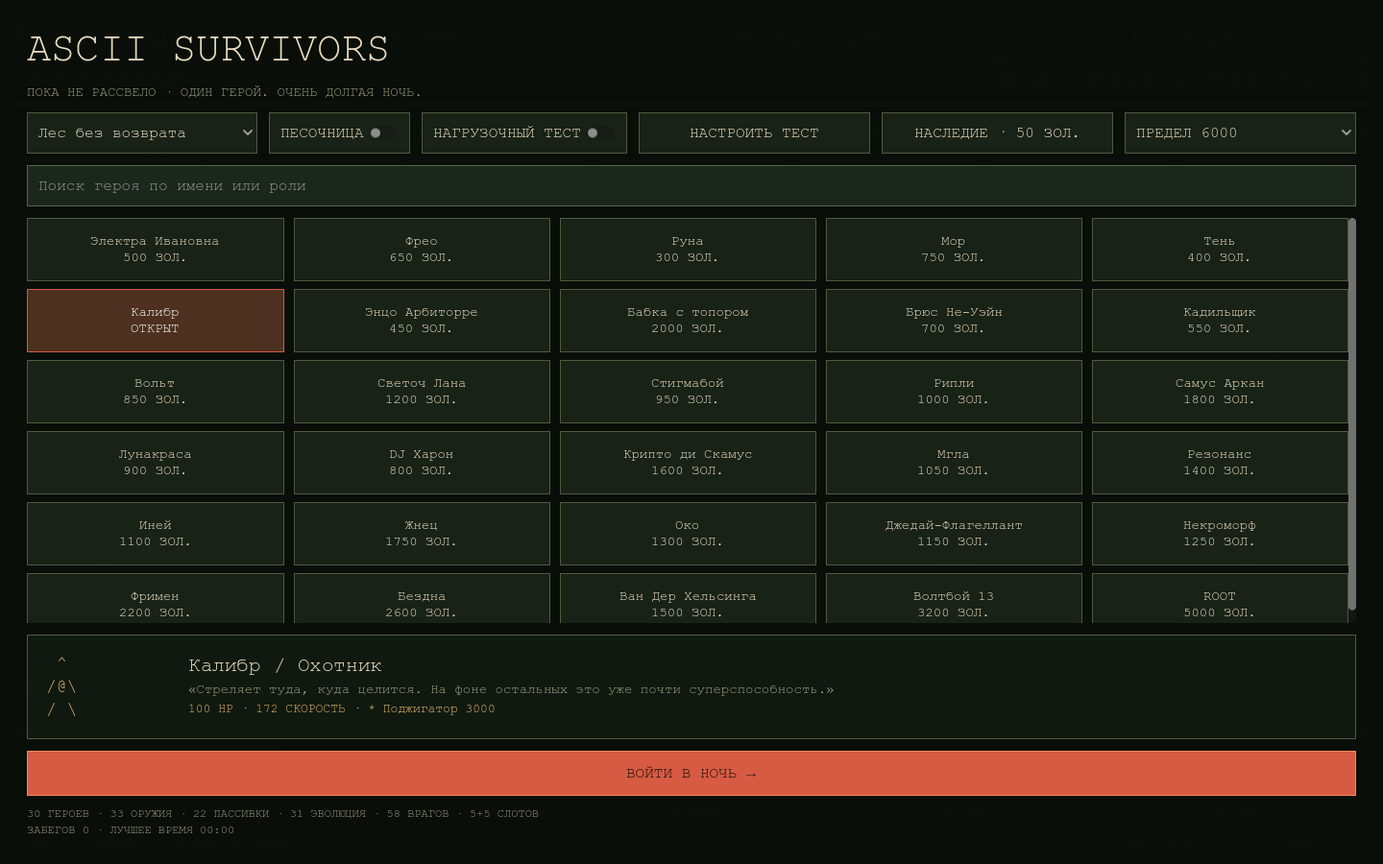
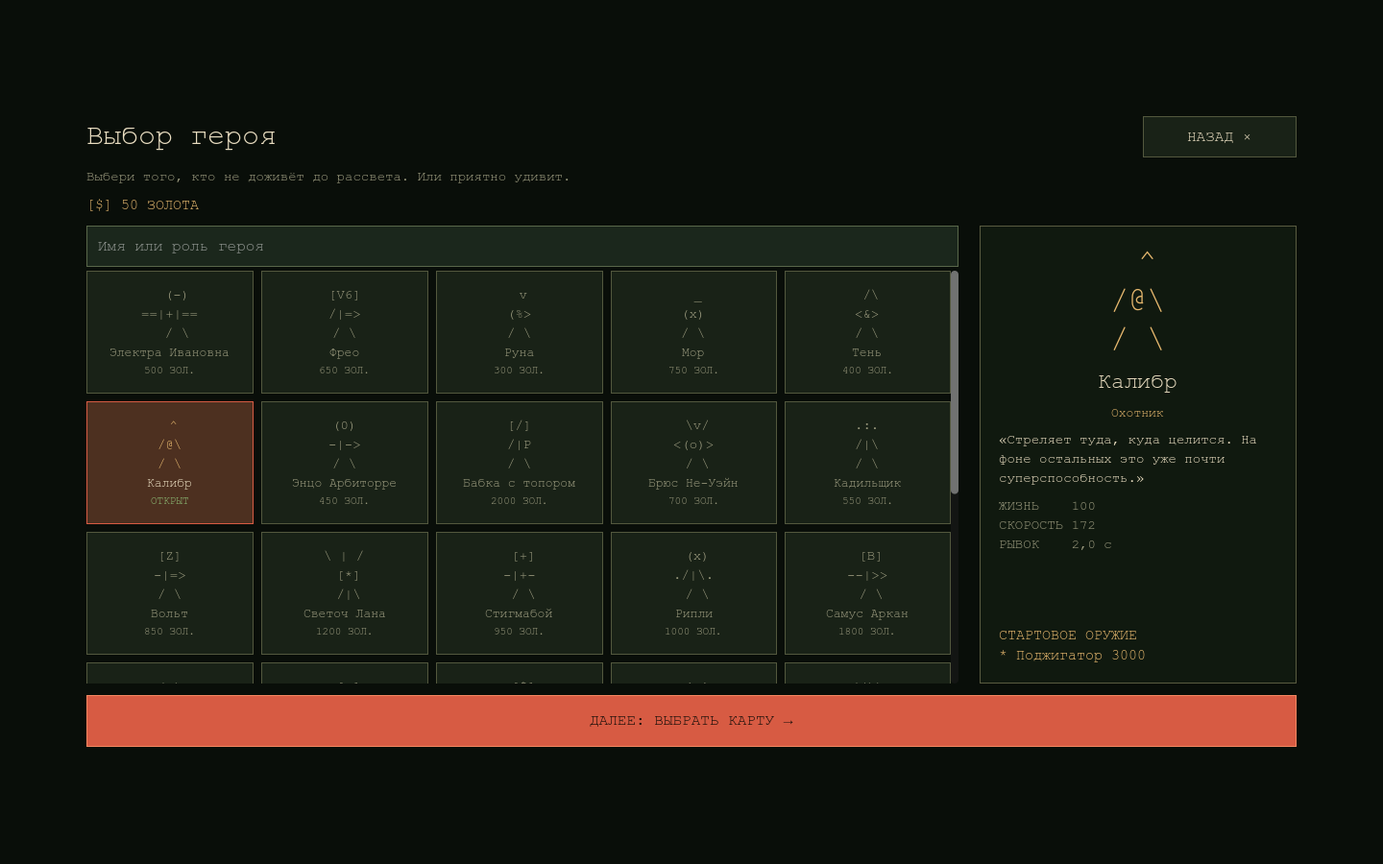
Add ASCII title menu and separate hero and stage selection

diff --git a/godot/src/Menus.cs b/godot/src/Menus.cs
@@ -8,25 +8,28 @@ public partial class Main
     private readonly List<Color> choiceColors=[];
     private VBoxContainer? choiceBody;
     private ScrollContainer? choiceScroll;
+    private VBoxContainer? centeredBody;
+    private float centeredWidth;
     private Button? confirmChoice,banishChoice,rerollChoice;
     private Label? choiceSelection,choiceMoney;
     private void CloseOverlay()
     {
         if(overlay is not null&&GodotObject.IsInstanceValid(overlay)){root.RemoveChild(overlay);overlay.QueueFree();}
-        overlay=null!;overlayKind="";choiceButtons.Clear();choiceColors.Clear();choiceBody=null;choiceScroll=null;confirmChoice=banishChoice=rerollChoice=null;choiceSelection=choiceMoney=null;
+        overlay=null!;overlayKind="";choiceButtons.Clear();choiceColors.Clear();choiceBody=null;choiceScroll=null;centeredBody=null;confirmChoice=banishChoice=rerollChoice=null;choiceSelection=choiceMoney=null;
     }
-    private VBoxContainer Modal(string kind,string title,string subtitle="",bool back=false)
+    private VBoxContainer Modal(string kind,string title,string subtitle="",bool back=false,float width=0)
     {
         CloseOverlay();overlayKind=kind;overlay=new Control{MouseFilter=Control.MouseFilterEnum.Stop};root.AddChild(overlay);Fill(overlay);
         var shade=new ColorRect{Color=new Color(.035f,.055f,.035f),MouseFilter=Control.MouseFilterEnum.Stop};overlay.AddChild(shade);Fill(shade);
         var margin=Margin(28);overlay.AddChild(margin);Fill(margin);var body=new VBoxContainer();Gap(body,12);
-        if(kind is "level" or "reward")
+        if(kind is "level" or "reward"||width>0)
         {
-            var center=new CenterContainer();margin.AddChild(center);center.AddChild(body);choiceBody=body;
-            body.CustomMinimumSize=new(Math.Min(1240,GetViewport().GetVisibleRect().Size.X-56),0);
+            var center=new CenterContainer();margin.AddChild(center);center.AddChild(body);centeredBody=body;centeredWidth=width>0?width:1240;
+            if(kind is "level" or "reward")choiceBody=body;
+            body.CustomMinimumSize=new(Math.Min(centeredWidth,GetViewport().GetVisibleRect().Size.X-56),0);
         }
         else margin.AddChild(body);
-        var header=new HBoxContainer();body.AddChild(header);var h=Label(title,kind=="intro"?42:30,parchment);h.SizeFlagsHorizontal=Control.SizeFlags.ExpandFill;header.AddChild(h);if(back)header.AddChild(Button("ВЕРНУТЬСЯ ×",CloseAux));
+        if(title.Length>0){var header=new HBoxContainer();body.AddChild(header);var h=Label(title,30,parchment);h.SizeFlagsHorizontal=Control.SizeFlags.ExpandFill;header.AddChild(h);if(back){var close=Button("НАЗАД ×",CloseAux);close.SizeFlagsHorizontal=Control.SizeFlags.Fill;close.CustomMinimumSize=new(160,42);header.AddChild(close);}}
         if(subtitle.Length>0){var sub=Label(subtitle,14,muted);sub.AutowrapMode=TextServer.AutowrapMode.WordSmart;body.AddChild(sub);}
         return body;
     }
@@ -42,53 +45,20 @@ public partial class Main
     }
     private static VBoxContainer Field(string title,Control input)
     {var box=new VBoxContainer{SizeFlagsHorizontal=Control.SizeFlags.ExpandFill};box.AddChild(new Label{Text=title});box.AddChild(input);return box;}
-    private void ShowIntro()
-    {
-        if(game.Status is RunStatus.Running or RunStatus.Paused){SaveCurrent();MakeReady();}
-        var body=Modal("intro","ASCII SURVIVORS","ПОКА НЕ РАССВЕЛО · ОДИН ГЕРОЙ. ОЧЕНЬ ДОЛГАЯ НОЧЬ.");
-        var options=new HBoxContainer();Gap(options,12);body.AddChild(options);
-        options.AddChild(Combo(content.Stages.Values.Select(s=>(s.Id,s.Title)),edit.Map,id=>{edit.Map=id;MakeReady();}));
-        var sandbox=new CheckButton{Text="ПЕСОЧНИЦА",ButtonPressed=edit.Sandbox};var stress=new CheckButton{Text="НАГРУЗОЧНЫЙ ТЕСТ",ButtonPressed=edit.Stress};options.AddChild(sandbox);options.AddChild(stress);options.AddChild(Button("НАСТРОИТЬ ТЕСТ",OpenSandbox));options.AddChild(Button($"НАСЛЕДИЕ · {store.Profile.Gold} ЗОЛ.",ShowShop));
-        options.AddChild(Combo(new[]{1000,3000,6000,12000,24000}.Select(n=>(n.ToString(),"ПРЕДЕЛ "+n)),edit.EnemyLimit.ToString(),id=>edit.EnemyLimit=int.Parse(id)));
-        var searchInput=new LineEdit{PlaceholderText="Поиск героя по имени или роли",Text=search,ClearButtonEnabled=true};body.AddChild(searchInput);
-        var heroes=new GridContainer{Columns=5};heroes.AddThemeConstantOverride("h_separation",10);heroes.AddThemeConstantOverride("v_separation",8);Scroll(body,heroes);
-        var detail=new PanelContainer();body.AddChild(detail);var detailRow=new HBoxContainer();Gap(detailRow,18);detail.AddChild(detailRow);var art=Label("",18,amber);art.CustomMinimumSize=new(130,0);detailRow.AddChild(art);var info=new VBoxContainer{SizeFlagsHorizontal=Control.SizeFlags.ExpandFill};detailRow.AddChild(info);Label name=Label("",21,parchment),description=Paragraph("",14,muted),stats=Label("",13,amber);info.AddChild(name);info.AddChild(description);info.AddChild(stats);
-        var actions=new HBoxContainer();Gap(actions,12);body.AddChild(actions);var buy=Button("ОТКРЫТЬ ГЕРОЯ",()=>{if(store.Purchase(edit.Hero,"hero")){MakeReady();ShowIntro();}else Toast(store.LastError.Length>0?store.LastError:"Недостаточно золота");});actions.AddChild(buy);
-        if(store.SavedRun is {} saved)actions.AddChild(Button($"ПРОДОЛЖИТЬ · {saved.Hero.Name} · {FormatTime(saved.Time)}",ContinueRun));
-        var start=Button("ВОЙТИ В НОЧЬ →",StartNew,true);actions.AddChild(start);
-        void UpdateDetail()
-        {
-            var hero=content.Heroes[edit.Hero];art.Text=hero.Sprite;name.Text=hero.Name+" / "+hero.Role;description.Text=hero.Description;stats.Text=$"{hero.Hp} HP · {hero.Speed} СКОРОСТЬ · "+content.ById[hero.Weapon].Icon+" "+content.ById[hero.Weapon].Title;
-            bool locked=!store.Profile.Heroes.Contains(hero.Id)&&!edit.Sandbox&&!edit.Stress;buy.Visible=locked;buy.Text="ОТКРЫТЬ ЗА "+hero.Cost+" ЗОЛ.";buy.Disabled=store.Profile.Gold<hero.Cost;start.Disabled=locked;
-        }
-        void BuildHeroes()
-        {
-            ClearChildren(heroes);var group=new ButtonGroup();
-            foreach(var hero in content.Heroes.Values.Where(h=>(h.Name+" "+h.Role+" "+h.Id).Contains(search,StringComparison.OrdinalIgnoreCase)))
-            {
-                bool owned=store.Profile.Heroes.Contains(hero.Id);var b=Button(hero.Name+"\n"+(owned?"ОТКРЫТ":edit.Sandbox||edit.Stress?"ДОСТУПЕН В ТЕСТЕ":hero.Cost+" ЗОЛ."),()=>{edit.Hero=hero.Id;MakeReady();UpdateDetail();});b.ToggleMode=true;b.ButtonGroup=group;b.ButtonPressed=hero.Id==edit.Hero;b.AutowrapMode=TextServer.AutowrapMode.WordSmart;b.CustomMinimumSize=new(0,66);b.AddThemeFontSizeOverride("font_size",14);b.TooltipText=hero.Description;heroes.AddChild(b);
-            }
-        }
-        sandbox.Toggled+=value=>{edit.Sandbox=value;if(value){edit.Stress=false;stress.SetPressedNoSignal(false);}MakeReady();BuildHeroes();UpdateDetail();};
-        stress.Toggled+=value=>{edit.Stress=value;if(value){edit.Sandbox=false;sandbox.SetPressedNoSignal(false);}MakeReady();BuildHeroes();UpdateDetail();};
-        searchInput.TextChanged+=value=>{search=value;BuildHeroes();};BuildHeroes();UpdateDetail();
-        body.AddChild(Label($"30 ГЕРОЕВ · 33 ОРУЖИЯ · 22 ПАССИВКИ · 31 ЭВОЛЮЦИЯ · 58 ВРАГОВ · 5+5 СЛОТОВ\nЗАБЕГОВ {store.Profile.Runs} · ЛУЧШЕЕ ВРЕМЯ {FormatTime((float)store.Profile.BestTime)}",12,muted));
-        if(store.LastError.Length>0)body.AddChild(Paragraph(store.LastError,13,red));
-    }
     private void ShowPause()
     {
         if(game.Status==RunStatus.Paused&&overlayKind=="pause"){Resume();return;}if(game.Status!=RunStatus.Running)return;game.Status=RunStatus.Paused;game.MoveInput=default;game.Firing=false;SaveCurrent();
-        var body=Modal("pause","Передышка","Враги и таймер на паузе.");body.Alignment=BoxContainer.AlignmentMode.Center;
+        var body=Modal("pause","Передышка","Враги и таймер на паузе.",width:540);body.Alignment=BoxContainer.AlignmentMode.Center;
         body.AddChild(Button("ПРОДОЛЖИТЬ →",Resume,true));body.AddChild(Button("ПЕСОЧНИЦА / НАСТРОИТЬ ТЕСТ",OpenSandbox));body.AddChild(Button("ДВИЖОК И УРОН",ShowMetrics));body.AddChild(Button("НАЧАТЬ ЗАНОВО",StartNew));body.AddChild(Button("НА СТАРТОВЫЙ ЭКРАН",()=>{SaveCurrent();MakeReady();ShowIntro();}));
     }
     private void Resume(){CloseOverlay();if(game.Status==RunStatus.Paused)game.Status=RunStatus.Running;lastStatus=game.Status;}
     private void PrepareAux()
-    {returnView=overlayKind=="intro"?"intro":overlayKind=="pause"?"pause":overlayKind.Length==0?"game":returnView;if(game.Status==RunStatus.Running){game.Status=RunStatus.Paused;game.Firing=false;game.MoveInput=default;SaveCurrent();}}
+    {returnView=overlayKind is "intro" or "characters" or "stages" or "lab" or "stress" or "pause"?overlayKind:overlayKind.Length==0?"game":returnView;if(game.Status==RunStatus.Running){game.Status=RunStatus.Paused;game.Firing=false;game.MoveInput=default;SaveCurrent();}}
     private void CloseAux()
-    {string back=returnView;CloseOverlay();if(back=="intro")ShowIntro();else if(back=="pause"){game.Status=RunStatus.Running;ShowPause();}else Resume();}
+    {string back=returnView;CloseOverlay();if(back=="intro")ShowIntro();else if(back=="characters")ShowCharacters();else if(back=="stages")ShowStages();else if(back=="lab")ShowLab();else if(back=="stress")ShowStressSetup();else if(back=="pause"){game.Status=RunStatus.Running;ShowPause();}else Resume();}
     private void OpenSandbox()
     {
-        PrepareAux();var body=Modal("sandbox","Песочница","Любой герой и оружие. Без наград и случайных волн. Урон герою включён, если не отмечена неуязвимость.",true);
+        PrepareAux();var body=Modal("sandbox","Песочница","Любой герой и оружие. Без наград и случайных волн. Урон герою включён, если не отмечена неуязвимость.",true,width:1000);
         var grid=new GridContainer{Columns=2,SizeFlagsVertical=Control.SizeFlags.ExpandFill};grid.AddThemeConstantOverride("h_separation",18);grid.AddThemeConstantOverride("v_separation",12);body.AddChild(grid);
         grid.AddChild(Field("Герой",Combo(content.Heroes.Values.Select(h=>(h.Id,h.Name)),edit.Hero,id=>edit.Hero=id)));
         grid.AddChild(Field("Оружие",Combo(new[]{("starter","Стартовое оружие героя")}.Concat(content.Items.Where(u=>u.Weapon).Select(u=>(u.Id,u.Title))),edit.Weapon,id=>edit.Weapon=id)));
@@ -154,14 +124,13 @@ public partial class Main
         {
             bool ok=reward?game.ClaimReward(game.OfferSelection):game.Choose(game.OfferSelection);if(!ok)return;CloseOverlay();RefreshHud(true);SaveCurrent();lastStatus=RunStatus.Ready;HandleStatus();
         },true);actions.AddChild(confirmChoice);
-        body.AddChild(Paragraph(reward?"ОДНА НАГРАДА ИЗ ТРЁХ · 1 / 2 / 3 — ВЫДЕЛИТЬ":"1 / 2 / 3 — ВЫДЕЛИТЬ · ИЗГНАНИЕ ДО КОНЦА ЗАБЕГА · РЕРОЛЛ 5 / 10 / 15… ЗОЛОТА ЗАБЕГА",12,muted));UpdateChoiceLayout();UpdateChoiceSelection();
+        body.AddChild(Paragraph(reward?"ОДНА НАГРАДА ИЗ ТРЁХ · 1 / 2 / 3 — ВЫДЕЛИТЬ":"1 / 2 / 3 — ВЫДЕЛИТЬ · ИЗГНАНИЕ ДО КОНЦА ЗАБЕГА · РЕРОЛЛ 5 / 10 / 15… ЗОЛОТА ЗАБЕГА",12,muted));UpdateOverlayLayout();UpdateChoiceSelection();
     }
-    private void UpdateChoiceLayout()
+    private void UpdateOverlayLayout()
     {
-        if(choiceBody is null||choiceScroll is null)return;
         var size=GetViewport().GetVisibleRect().Size;
-        choiceBody.CustomMinimumSize=new(Math.Min(1240,size.X-56),0);
-        choiceScroll.CustomMinimumSize=new(0,Math.Clamp(size.Y-300,240,500));
+        if(centeredBody is not null)centeredBody.CustomMinimumSize=new(Math.Min(centeredWidth,size.X-56),0);
+        if(choiceScroll is not null)choiceScroll.CustomMinimumSize=new(0,Math.Clamp(size.Y-300,240,500));
     }
     private void SelectChoice(int index){int count=overlayKind=="reward"?game.Rewards.Count:game.Offers.Count;if(index<0||index>=count)return;game.OfferSelection=index;choiceButtons[index].GrabFocus();UpdateChoiceSelection();SaveCurrent();}
     private void UpdateChoiceSelection()

diff --git a/godot/src/FrontEnd.cs b/godot/src/FrontEnd.cs
@@ -1,0 +1,112 @@
+using Godot;
+
+namespace AsciiSurvivors;
+
+public partial class Main
+{
+    private Label CenterText(string text,int size,Color color)
+    {var label=Paragraph(text,size,color);label.HorizontalAlignment=HorizontalAlignment.Center;return label;}
+    private Button MenuAction(string id,string text,Action action,bool primary=false)
+    {var button=Button(text,action,primary);button.Name=id;button.CustomMinimumSize=new(0,54);return button;}
+    private void PlayFromTitle()
+    {
+        edit.Sandbox=edit.Stress=false;
+        if(!store.Profile.Heroes.Contains(edit.Hero))edit.Hero=store.Profile.Hero;
+        MakeReady();ShowCharacters();
+    }
+    private void ShowIntro()
+    {
+        if(game.Status is RunStatus.Running or RunStatus.Paused){SaveCurrent();MakeReady();}
+        var body=Modal("intro","",width:1100);Gap(body,16);
+        var scenery=new MenuBackdrop{Font=renderer.Font};overlay.GetChild(0).AddChild(scenery);Fill(scenery);
+        var top=new HBoxContainer();Gap(top,20);body.AddChild(top);
+        var quit=MenuAction("Quit","ВЫХОД",()=>GetTree().Quit());quit.SizeFlagsHorizontal=Control.SizeFlags.Fill;quit.CustomMinimumSize=new(160,42);top.AddChild(quit);
+        top.AddChild(CenterText("[$] "+store.Profile.Gold+" ЗОЛОТА",20,amber));
+        var screen=MenuAction("Fullscreen","ПОЛНЫЙ ЭКРАН",ToggleFullscreen);screen.SizeFlagsHorizontal=Control.SizeFlags.Fill;screen.CustomMinimumSize=new(180,42);top.AddChild(screen);
+        body.AddChild(new Control{CustomMinimumSize=new(0,14)});
+        var ascii=CenterText("ASCII",48,amber);ascii.AddThemeColorOverride("font_shadow_color",new Color("050604"));ascii.AddThemeConstantOverride("shadow_offset_y",4);body.AddChild(ascii);
+        var logo=CenterText("SURVIVORS",82,new Color("efb86f"));logo.AddThemeColorOverride("font_shadow_color",new Color("672f21"));logo.AddThemeConstantOverride("shadow_offset_x",4);logo.AddThemeConstantOverride("shadow_offset_y",5);body.AddChild(logo);
+        body.AddChild(CenterText("—  ПОКА НЕ РАССВЕЛО  —",18,red));
+        body.AddChild(CenterText("       .-.       \n      /o o\\      \n      /|+|\\      \n     _/   \\_     ",23,parchment));
+        var center=new CenterContainer();body.AddChild(center);var launch=new VBoxContainer{CustomMinimumSize=new(420,0)};Gap(launch,10);center.AddChild(launch);
+        launch.AddChild(MenuAction("Play","ИГРАТЬ  →",PlayFromTitle,true));
+        if(store.SavedRun is {} saved)launch.AddChild(MenuAction("Continue","ПРОДОЛЖИТЬ · "+saved.Hero.Name+" · "+FormatTime(saved.Time),ContinueRun));
+        var sections=new GridContainer{Columns=4};sections.AddThemeConstantOverride("h_separation",12);body.AddChild(sections);
+        sections.AddChild(MenuAction("Legacy","[+]  НАСЛЕДИЕ",ShowShop));
+        sections.AddChild(MenuAction("Recipes","[?]  НЕКРОНОМИКОН"+(store.Profile.Features.Contains("necronomicon")?"":"\nОТКРЫТЬ · "+content.Features.First(f=>f.Id=="necronomicon").Cost+" ЗОЛ."),()=>OpenFeature("necronomicon")));
+        sections.AddChild(MenuAction("Bestiary","(x)  БЕСТИАРИЙ"+(store.Profile.Features.Contains("bestiary")?"":"\nОТКРЫТЬ · "+content.Features.First(f=>f.Id=="bestiary").Cost+" ЗОЛ."),()=>OpenFeature("bestiary")));
+        sections.AddChild(MenuAction("Laboratory","[>]  ИСПЫТАНИЯ",ShowLab));
+        body.AddChild(CenterText($"ОТКРЫТО ГЕРОЕВ {store.Profile.Heroes.Count} / {content.Heroes.Count}   ·   ЛУЧШИЙ ЗАБЕГ {FormatTime((float)store.Profile.BestTime)}",13,muted));
+        body.AddChild(CenterText("ОДИН ГЕРОЙ. ОЧЕНЬ ДОЛГАЯ НОЧЬ.",12,muted));
+        if(store.LastError.Length>0)body.AddChild(CenterText(store.LastError,13,red));
+    }
+    private void ShowCharacters()
+    {
+        returnView="intro";
+        var body=Modal("characters","Выбор героя","Выбери того, кто не доживёт до рассвета. Или приятно удивит.",true,width:1260);
+        var wallet=Label("[$] "+store.Profile.Gold+" ЗОЛОТА",15,amber);body.AddChild(wallet);
+        var panes=new HBoxContainer();Gap(panes,22);body.AddChild(panes);
+        var catalogue=new VBoxContainer{SizeFlagsHorizontal=Control.SizeFlags.ExpandFill};panes.AddChild(catalogue);
+        var input=new LineEdit{PlaceholderText="Имя или роль героя",Text=search,ClearButtonEnabled=true};catalogue.AddChild(input);
+        var scroll=new ScrollContainer{CustomMinimumSize=new(0,430),SizeFlagsHorizontal=Control.SizeFlags.ExpandFill,SizeFlagsVertical=Control.SizeFlags.ExpandFill,HorizontalScrollMode=ScrollContainer.ScrollMode.Disabled};catalogue.AddChild(scroll);
+        var grid=new GridContainer{Columns=5,SizeFlagsHorizontal=Control.SizeFlags.ExpandFill};grid.Name="HeroGrid";grid.AddThemeConstantOverride("h_separation",8);grid.AddThemeConstantOverride("v_separation",8);scroll.AddChild(grid);
+        var panel=new PanelContainer{CustomMinimumSize=new(330,0)};panes.AddChild(panel);var detail=new VBoxContainer{CustomMinimumSize=new(290,0)};Gap(detail,12);panel.AddChild(detail);
+        var portrait=CenterText("",32,amber);portrait.CustomMinimumSize=new(0,110);detail.AddChild(portrait);
+        var name=CenterText("",23,parchment);var role=CenterText("",13,amber);detail.AddChild(name);detail.AddChild(role);
+        var description=Paragraph("",14,parchment);detail.AddChild(description);var stats=Paragraph("",14,muted);detail.AddChild(stats);
+        detail.AddChild(new Control{SizeFlagsVertical=Control.SizeFlags.ExpandFill});var weapon=Paragraph("",15,amber);detail.AddChild(weapon);
+        var actions=new HBoxContainer();Gap(actions,12);body.AddChild(actions);
+        var buy=MenuAction("BuyHero","ОТКРЫТЬ ГЕРОЯ",()=>{if(store.Purchase(edit.Hero,"hero")){MakeReady();ShowCharacters();}else Toast(store.LastError.Length>0?store.LastError:"Недостаточно золота");});actions.AddChild(buy);
+        var next=MenuAction("ChooseStage","ДАЛЕЕ: ВЫБРАТЬ КАРТУ →",ShowStages,true);actions.AddChild(next);
+        void UpdateDetail()
+        {
+            var hero=content.Heroes[edit.Hero];bool owned=store.Profile.Heroes.Contains(hero.Id);
+            portrait.Text=hero.Sprite;name.Text=hero.Name;role.Text=hero.Role;description.Text=hero.Description;
+            stats.Text=$"ЖИЗНЬ    {game.Player.MaxHp}\nСКОРОСТЬ {game.Speed:0}\nРЫВОК    {game.DashCooldown:0.0} с";
+            weapon.Text="СТАРТОВОЕ ОРУЖИЕ\n"+content.ById[hero.Weapon].Icon+" "+content.ById[hero.Weapon].Title;
+            if(hero.ExtraWeapons.Length>0)weapon.Text+="\n"+string.Join("\n",hero.ExtraWeapons.Select(id=>content.ById[id].Icon+" "+content.ById[id].Title));
+            buy.Visible=!owned;buy.Text="ОТКРЫТЬ ЗА "+hero.Cost+" ЗОЛ.";buy.Disabled=store.Profile.Gold<hero.Cost;next.Disabled=!owned;
+        }
+        void BuildHeroes()
+        {
+            ClearChildren(grid);var group=new ButtonGroup();
+            foreach(var hero in content.Heroes.Values.Where(h=>(h.Name+" "+h.Role+" "+h.Id).Contains(search,StringComparison.OrdinalIgnoreCase)))
+            {
+                bool owned=store.Profile.Heroes.Contains(hero.Id);
+                var b=Button("",()=>{edit.Hero=hero.Id;MakeReady();UpdateDetail();});b.Name="Hero-"+hero.Id;b.AccessibilityName=hero.Name;b.TooltipText=hero.Description;b.ToggleMode=true;b.ButtonGroup=group;b.ButtonPressed=hero.Id==edit.Hero;b.CustomMinimumSize=new(0,128);grid.AddChild(b);
+                var inset=Margin(8);inset.MouseFilter=Control.MouseFilterEnum.Ignore;b.AddChild(inset);Fill(inset);var tile=new VBoxContainer{MouseFilter=Control.MouseFilterEnum.Ignore,Alignment=BoxContainer.AlignmentMode.Center};Gap(tile,4);inset.AddChild(tile);
+                tile.AddChild(CenterText(hero.Sprite,14,owned?amber:muted));tile.AddChild(CenterText(hero.Name,13,owned?parchment:muted));tile.AddChild(CenterText(owned?"ОТКРЫТ":hero.Cost+" ЗОЛ.",11,owned?new Color("91c77c"):muted));
+            }
+        }
+        input.TextChanged+=value=>{search=value;BuildHeroes();};BuildHeroes();UpdateDetail();
+    }
+    private void ShowStages()
+    {
+        if(!store.Profile.Heroes.Contains(edit.Hero)){Toast("Сначала открой героя");return;}
+        returnView="characters";var body=Modal("stages","Выбор карты",content.Heroes[edit.Hero].Name+" · пять слотов оружия, пять пассивок и сколько угодно неприятностей.",true,width:1040);
+        var maps=new HBoxContainer();Gap(maps,18);body.AddChild(maps);var group=new ButtonGroup();
+        foreach(var stage in content.Stages.Values)
+        {
+            bool forest=stage.Id=="forest";
+            var b=Button("",()=>{edit.Map=stage.Id;MakeReady();});b.Name="Stage-"+stage.Id;b.AccessibilityName=stage.Title;b.ToggleMode=true;b.ButtonGroup=group;b.ButtonPressed=edit.Map==stage.Id;b.CustomMinimumSize=new(0,380);maps.AddChild(b);
+            var inset=Margin(24);inset.MouseFilter=Control.MouseFilterEnum.Ignore;b.AddChild(inset);Fill(inset);var card=new VBoxContainer{MouseFilter=Control.MouseFilterEnum.Ignore};Gap(card,18);inset.AddChild(card);
+            card.AddChild(CenterText(forest?"    /\\       /\\    \n   /**\\  /\\ /**\\   \n  /****\\/**\\****\\  \n    || /****\\ ||    \n  . ||   ||   || .  ":"      .---.       \n   +  | R |  +    \n --|--| I |--|--  \n   |  | P |  |    \n  _|__|___|__|_   ",22,forest?new Color("91c77c"):muted));
+            card.AddChild(CenterText(stage.Title,24,parchment));card.AddChild(Paragraph(stage.Description,16,parchment));card.AddChild(new Control{SizeFlagsVertical=Control.SizeFlags.ExpandFill});card.AddChild(CenterText("12 800 × 9 600 · БЕСКОНЕЧНАЯ НОЧЬ",12,amber));
+        }
+        body.AddChild(MenuAction("StartRun","ВОЙТИ В НОЧЬ →",StartNew,true));body.AddChild(CenterText("WASD — ДВИЖЕНИЕ   ·   ПРОБЕЛ — РЫВОК   ·   M — РЕЖИМ ОГНЯ",12,muted));
+    }
+    private void ShowLab()
+    {
+        returnView="intro";var body=Modal("lab","Испытания","Место, где можно быть бессмертным. И всё равно что-нибудь сломать.",true,width:700);
+        body.AddChild(MenuAction("Sandbox","[>]  ПЕСОЧНИЦА",OpenSandbox));body.AddChild(Paragraph("Любой герой, любое оружие и выбранные враги. Проверяй атаки и эволюции без покупки героев.",15,muted));
+        body.AddChild(MenuAction("StressSetup","[!]  НАГРУЗОЧНЫЙ ТЕСТ",ShowStressSetup));body.AddChild(Paragraph("Полный арсенал, неуязвимость и растущая толпа. Результаты испытаний не изменяют обычный прогресс.",15,muted));
+    }
+    private void ShowStressSetup()
+    {
+        returnView="lab";var body=Modal("stress","Нагрузочный тест","Все оружия и пассивки на максимуме. Неуязвимость включена. Прогресс не сохраняется.",true,width:760);
+        body.AddChild(Field("Герой",Combo(content.Heroes.Values.Select(h=>(h.Id,h.Name)),edit.Hero,id=>edit.Hero=id)));
+        body.AddChild(Field("Карта",Combo(content.Stages.Values.Select(s=>(s.Id,s.Title)),edit.Map,id=>edit.Map=id)));
+        body.AddChild(Field("Предел врагов",Combo(new[]{1000,3000,6000,12000,24000}.Select(n=>(n.ToString(),n.ToString())),edit.EnemyLimit.ToString(),id=>edit.EnemyLimit=int.Parse(id))));
+        body.AddChild(MenuAction("StartStress","ЗАПУСТИТЬ ТЕСТ →",()=>{edit.Sandbox=false;edit.Stress=true;StartNew();},true));
+    }
+}

diff --git a/godot/src/SmokeTest.cs b/godot/src/SmokeTest.cs
@@ -12,8 +12,18 @@ public partial class Main
             async Task Settle(){for(int i=0;i<6;i++)await ToSignal(GetTree(),SceneTree.SignalName.ProcessFrame);}
             async Task Shot(string name){await Settle();await ToSignal(RenderingServer.Singleton,RenderingServer.SignalName.FramePostDraw);using var image=GetViewport().GetTexture().GetImage();if(image.IsEmpty())throw new Exception("Empty viewport capture");if(image.SavePng(Path.Combine(directory,name+".png"))!=Error.Ok)throw new IOException("Screenshot failed");}
             void Assert(bool ok,string message){if(!ok)throw new Exception(message);}
-            await Shot("01-heroes");Assert(overlayKind=="intro","Intro view");
-            edit.Hero="hunter";edit.Sandbox=edit.Stress=false;StartNew();game.Status=RunStatus.Paused;
+            Button FindButton(string name)=>overlay.FindChildren(name,"Button",true,false).Cast<Button>().Single();
+            void Press(string name)=>FindButton(name).EmitSignal(Godot.Button.SignalName.Pressed);
+            await Shot("01-title");Assert(overlayKind=="intro"&&!overlay.FindChildren("HeroGrid","",true,false).Any(),"Title separate from hero selection");
+            Press("Recipes");Assert(overlayKind=="shop","Locked collection opens Legacy");CloseAux();Assert(overlayKind=="intro","Legacy returns to title");
+            Press("Play");await Shot("01-heroes");Assert(overlayKind=="characters"&&overlay.FindChildren("Hero-*","Button",true,false).Count==30,"All hero portrait tiles");
+            string locked=content.Heroes.Keys.First(id=>!store.Profile.Heroes.Contains(id));Press("Hero-"+locked);Assert(FindButton("ChooseStage").Disabled&&FindButton("BuyHero").Visible,"Locked hero cannot start");
+            Press("Hero-hunter");Press("ChooseStage");await Shot("01-stages");Assert(overlayKind=="stages","Separate stage selection");
+            Press("Stage-graveyard");Assert(edit.Map=="graveyard","Stage tile selects map");CloseAux();Assert(overlayKind=="characters","Stage back returns to heroes");CloseAux();Assert(overlayKind=="intro","Hero back returns to title");
+            ShowLab();await Shot("01-laboratory");Press("Sandbox");CloseAux();Assert(overlayKind=="lab","Sandbox back returns to lab");
+            Press("StressSetup");await Shot("01-stress-setup");edit.Hero=locked;int bank=store.Profile.Gold;Press("StartStress");Assert(game.Options.Stress&&game.Invincible,"Stress mode reachable with locked hero");
+            ShowIntro();Press("Play");Assert(!edit.Stress&&!edit.Sandbox&&store.Profile.Heroes.Contains(edit.Hero)&&store.Profile.Gold==bank,"Play clears test mode without unlocking or spending");
+            Press("ChooseStage");Press("Stage-forest");Press("StartRun");Assert(game.Status==RunStatus.Running&&game.MapId=="forest"&&!game.IsTest,"Title to heroes to stage starts normal run");game.Status=RunStatus.Paused;
             for(int i=0;i<35;i++)game.Spawn(i%4==0?"pumpkin":"skeleton",game.Player.Pos+World.Direction(i*.73f)*(160+i*9));
             game.RebuildGrid();game.Cast(game.SelectedWeapon);RefreshHud(true);await Shot("02-arena");
             game.Status=RunStatus.Running;game.GainXp(10);game.CheckLevel();game.Status=RunStatus.Upgrading;ShowChoices(false);await Settle();
@@ -21,7 +31,8 @@ public partial class Main
             SelectChoice(0);Assert(!confirmChoice.Disabled&&game.OfferSelection==0,"Explicit selection");
             _Input(new InputEventKey{Keycode=Key.Space,Pressed=true});Assert(game.Status==RunStatus.Upgrading,"Space does not confirm");
             await Shot("03-upgrades");Assert(confirmChoice.GetGlobalRect().End.Y<=root.Size.Y+1,"Choice actions fit viewport");
-            game.Choose(0);CloseOverlay();game.Status=RunStatus.Running;ShowPause();await Shot("04-pause");
+            game.Choose(0);CloseOverlay();game.Status=RunStatus.Running;ShowPause();await Shot("04-pause");Assert(centeredBody!.Size.X<=540,"Pause buttons stay compact");
+            string runId=game.RunId;ShowIntro();Assert(store.SavedRun?.RunId==runId,"Title preserves current battle");Press("Continue");Assert(game.RunId==runId&&game.Status==RunStatus.Running,"Continue resumes same battle");
             MakeReady();ShowShop();await Shot("05-legacy");
             edit.Sandbox=true;MakeReady();OpenSandbox();await Shot("06-sandbox-settings");
             edit.Hero="hunter";edit.Enemy="lichLord";edit.Weapon="lightning";edit.Rank=4;edit.Invulnerable=false;StartNew();game.Status=RunStatus.Paused;game.Manual=true;game.Player.Hp=game.Player.MaxHp=1000;
@@ -38,6 +49,10 @@ public partial class Main
                 Assert(Math.Abs(viewport.X/viewport.Y-window.X/(float)window.Y)<.002f,tag+" viewport matches window aspect, no letterbox");
                 Assert(Math.Abs(root.Size.X-viewport.X)<2&&Math.Abs(root.Size.Y-viewport.Y)<2,tag+" HUD covers viewport");
                 Assert(renderer.Field.Position.X==0&&Math.Abs(renderer.Field.End.X-viewport.X)<2,tag+" arena fills full width");
+                var run=game;MakeReady();ShowIntro();await Shot("title-"+tag);Assert(overlay.GetGlobalRect().Encloses(centeredBody!.GetGlobalRect()),tag+" title fits");
+                Press("Play");await Shot("heroes-"+tag);Assert(overlay.GetGlobalRect().Encloses(centeredBody!.GetGlobalRect()),tag+" hero selection fits");
+                Press("ChooseStage");await Settle();Assert(overlay.GetGlobalRect().Encloses(centeredBody!.GetGlobalRect()),tag+" stage selection fits");
+                CloseOverlay();game=run;renderer.Game=run;game.Status=RunStatus.Running;ShowPause();await Settle();Assert(centeredBody!.Size.X<=540&&overlay.GetGlobalRect().Encloses(centeredBody.GetGlobalRect()),tag+" pause stays compact");
                 game.Status=RunStatus.Upgrading;game.OfferSelection=-1;ShowChoices(false);await Settle();
                 Assert(confirmChoice!.Disabled,tag+" choice requires selection");
                 choiceButtons[1].EmitSignal(Godot.Button.SignalName.Pressed);await Shot("upgrades-"+tag);
@@ -65,7 +80,7 @@ public partial class Main
             Assert(overlay.GetGlobalRect().Encloses(choiceBody!.GetGlobalRect()),"Fullscreen choice panel fits");
             DisplayServer.WindowSetMode(DisplayServer.WindowMode.Windowed);
             File.WriteAllText(Path.Combine(directory,"resolutions.json"),System.Text.Json.JsonSerializer.Serialize(matrix,new System.Text.Json.JsonSerializerOptions{WriteIndented=true}));
-            GD.Print("PASS: native UI smoke test, 7 window sizes + fullscreen, full-width arena, compact readable cards, explicit choices, boss damage. Screenshots at "+directory);GetTree().Quit();
+            GD.Print("PASS: native UI smoke test, title/hero/stage navigation, hero locks, saved-run resume, isolated test modes, compact pause, 7 window sizes + fullscreen, upgrades and boss damage. Screenshots at "+directory);GetTree().Quit();
         }
         catch(Exception e){GD.PushError("UI SMOKE FAILED: "+e);GetTree().Quit(1);}
     }

diff --git a/godot/src/MenuBackdrop.cs b/godot/src/MenuBackdrop.cs
@@ -1,0 +1,31 @@
+using Godot;
+
+namespace AsciiSurvivors;
+
+public partial class MenuBackdrop : Control
+{
+    public Font Font=null!;
+    private double clock;
+    public MenuBackdrop(){MouseFilter=MouseFilterEnum.Ignore;}
+    public override void _Process(double delta){clock+=delta;if(clock>=.08){clock=0;QueueRedraw();}}
+    private void Art(Vector2 at,string value,int size,Color color)
+    {
+        foreach(var line in value.Split('\n')){DrawString(Font,at,line,HorizontalAlignment.Left,-1,size,color);at.Y+=size*1.18f;}
+    }
+    public override void _Draw()
+    {
+        if(Font is null)return;float w=Size.X,h=Size.Y;
+        for(int i=0;i<32;i++){float t=i/31f;DrawRect(new Rect2(0,i*h/32,w,h/32+1),new Color(.055f+t*.035f,.045f+t*.015f,.042f+t*.012f));}
+        var center=new Vector2(w/2,h*.42f);float radius=Math.Min(w,h)*.56f;
+        for(int i=7;i>0;i--)DrawCircle(center,radius*i/7,new Color(.27f,.07f,.045f,.035f));
+        const string left="        _____        \n     .-'     '-.     \n    /  _     _  \\    \n   |  (x)   (x)  |   \n   |      ^      |   \n    \\  .---.  /     \n     '-.|_|_.-'      \n       /| |\\        \n     _/ | | \\_      \n   _/   | |   \\_    \n  /_____|_|_____\\   ";
+        const string right="       /\\        \n      /  \\       \n     / .. \\      \n    /  __  \\     \n   /___||___\\    \n      /||\\       \n    _/ || \\_     \n   /   ||   \\    \n  /    ||    \\   \n /____/  \\____\\  ";
+        Art(new(w*.09f,h*.3f),left,20,new Color("634534"));Art(new(w*.78f,h*.31f),right,22,new Color("4f5140"));
+        for(int i=0;i<55;i++)
+        {
+            float x=(i*773.13f)%Math.Max(w,1),y=(i*139.7f-(float)Time.GetTicksMsec()*.006f)%Math.Max(h,1);if(y<0)y+=h;
+            DrawString(Font,new(x,y),i%3==0?"*":".",HorizontalAlignment.Left,-1,12,new Color(.6f,.38f,.17f,.22f+(float)Math.Sin(i+Time.GetTicksMsec()*.001)*.08f));
+        }
+        for(int i=0;i<12;i++){float x=i*w/11;Art(new(x,h-80-(i%3)*15),i%2==0?"  +  \n--|--\n _|_ ":" .-. \n | | \n_|_|_",15,new Color("2b3022"));}
+    }
+}

diff --git a/godot/src/Main.cs b/godot/src/Main.cs
@@ -59,7 +59,7 @@ public partial class Main : Node
     private void BuildHud()
     {
         var layer=new CanvasLayer{Layer=5};AddChild(layer);root=new Control{Theme=theme,MouseFilter=Control.MouseFilterEnum.Ignore};layer.AddChild(root);Fill(root);
-        root.Resized+=UpdateChoiceLayout;
+        root.Resized+=UpdateOverlayLayout;
         layout=new VBoxContainer{MouseFilter=Control.MouseFilterEnum.Ignore};root.AddChild(layout);Fill(layout);Gap(layout,0);
         var header=Margin(16);layout.AddChild(header);var head=new VBoxContainer();header.AddChild(head);Gap(head,8);
         var top=new HBoxContainer();head.AddChild(top);top.AddChild(Label("[+] ASCII SURVIVORS",22,amber));var tag=Label("ПОКА НЕ РАССВЕЛО · C# / GODOT",12,muted);tag.SizeFlagsHorizontal=Control.SizeFlags.ExpandFill;top.AddChild(tag);
@@ -86,7 +86,7 @@ public partial class Main : Node
     }
     private void ContinueRun()
     {
-        if(store.SavedRun is not {} saved)return;game=saved;renderer.Game=game;renderer.Camera=game.Player.Pos;edit.Hero=game.HeroId;edit.Map=game.MapId;edit.Sandbox=edit.Stress=false;CloseOverlay();if(game.Status==RunStatus.Paused)game.Status=RunStatus.Running;lastStatus=RunStatus.Ready;finished=false;RefreshHud(true);HandleStatus();
+        if(store.SavedRun is not {} saved)return;game=saved;renderer.Game=game;renderer.Camera=game.Player.Pos;edit.Hero=game.HeroId;edit.Map=game.MapId;edit.Manual=game.Manual;edit.Sandbox=edit.Stress=false;CloseOverlay();if(game.Status==RunStatus.Paused)game.Status=RunStatus.Running;lastStatus=RunStatus.Ready;finished=false;RefreshHud(true);HandleStatus();
     }
     private void SaveCurrent()
     {if(game.IsTest)return;bool ok=game.Status==RunStatus.Dead?store.Finish(game):store.Checkpoint(game);saveLabel.Text=ok?"ПРОГРЕСС СОХРАНЁН":store.LastError.Length>0?"ОШИБКА СОХРАНЕНИЯ":"АВТОСОХРАНЕНИЕ";if(!ok&&store.LastError.Length>0)Toast(store.LastError);}

diff --git a/godot/README.md b/godot/README.md
@@ -20,6 +20,12 @@
 
 Усиление подтверждается кнопкой **«Выбрать»**. Реролл стоит 5 → 10 → 15… золота текущего забега. В песочнице доступны все герои, оружие, эволюции и враги; она не меняет обычный прогресс. Неуязвимость включается отдельно.
 
+## Главное меню
+
+**Играть → выбор героя → выбор карты → Войти в ночь.** У героев есть ASCII-портреты, описание, характеристики с учётом Наследия и стартовый набор оружия. Закрытого героя можно рассмотреть и купить за золото. Сохранённый забег продолжается отдельной кнопкой на главном экране.
+
+Наследие, Некрономикон и Бестиарий доступны из главного меню. Песочница и нагрузочный тест находятся в разделе **«Испытания»**. Кнопка «Играть» запускает обычный режим, даже если перед этим был тест. Пауза занимает компактный блок по центру.
+
 ## Сохранения и перенос профиля
 
 Godot сохраняет профиль и текущий бой в `%APPDATA%/ASCII Survivors/state.json`. Есть автосохранение каждые 5 секунд, при паузе, выборе награды и закрытии окна, а также резервная копия `.bak`. В «Наследии» можно экспортировать и восстановить JSON-копию.
@@ -50,10 +56,14 @@ Godot сохраняет профиль и текущий бой в `%APPDATA%/A
 ## Проверки и границы переноса
 
 - `-- --verify`: 1175 проверок, включая 64 эталона обычных/эволюционировавших атак из JS, все стартовые наборы, волны, атаки боссов, кольца, награды, сохранения и откат при ошибке записи. Работает и в экспортированном EXE.
-- `-- --smoke-test=<абсолютная папка>`: настоящий рендер Godot: меню, арена, сундук, атаки босса, семь размеров окна (960×640 — 3440×1440) и полный экран. Проверяется совпадение пропорций окна/viewport без чёрных полос, полная ширина поля, размещение текста карточек и близость кнопок выбора. Снимки и `resolutions.json` записываются в указанную папку; сохранение изолировано от основного профиля.
+- `-- --smoke-test=<абсолютная папка>`: настоящий рендер Godot: главное меню, переходы герой → карта → забег и назад, блокировка закрытых героев, продолжение сохранения, изоляция испытаний, компактная пауза, арена, сундук, атаки босса, семь размеров окна (960×640 — 3440×1440) и полный экран. Проверяется совпадение пропорций окна/viewport без чёрных полос, полная ширина поля, размещение текста карточек и близость кнопок выбора. Снимки и `resolutions.json` записываются в указанную папку; сохранение изолировано от основного профиля.
 - `node Tests/export-reference.cjs`: обновление эталонов из JS. Пересматривать изменения фикстуры перед коммитом, а не принимать их автоматически.
 
 Фиксированный шаг симуляции — 60 Гц, отрисовка — по частоте окна. Не создаётся отдельный Godot-узел на каждого врага; симуляция использует пространственную сетку, отрисовка отсекает объекты за экраном. Кооператив пока не реализован. Полноценный получасовой игровой и нагрузочный прогон на разных ПК ещё предстоит; численное сравнение атак не гарантирует побитового совпадения всего забега с JS.
+
+![Godot: главное меню](../docs/screenshots/godot-title.png)
+
+![Godot: выбор героя](../docs/screenshots/godot-heroes.png)
 
 ![Godot: поле на всю ширину 2560×1080](../docs/screenshots/godot-wide.png)
 
